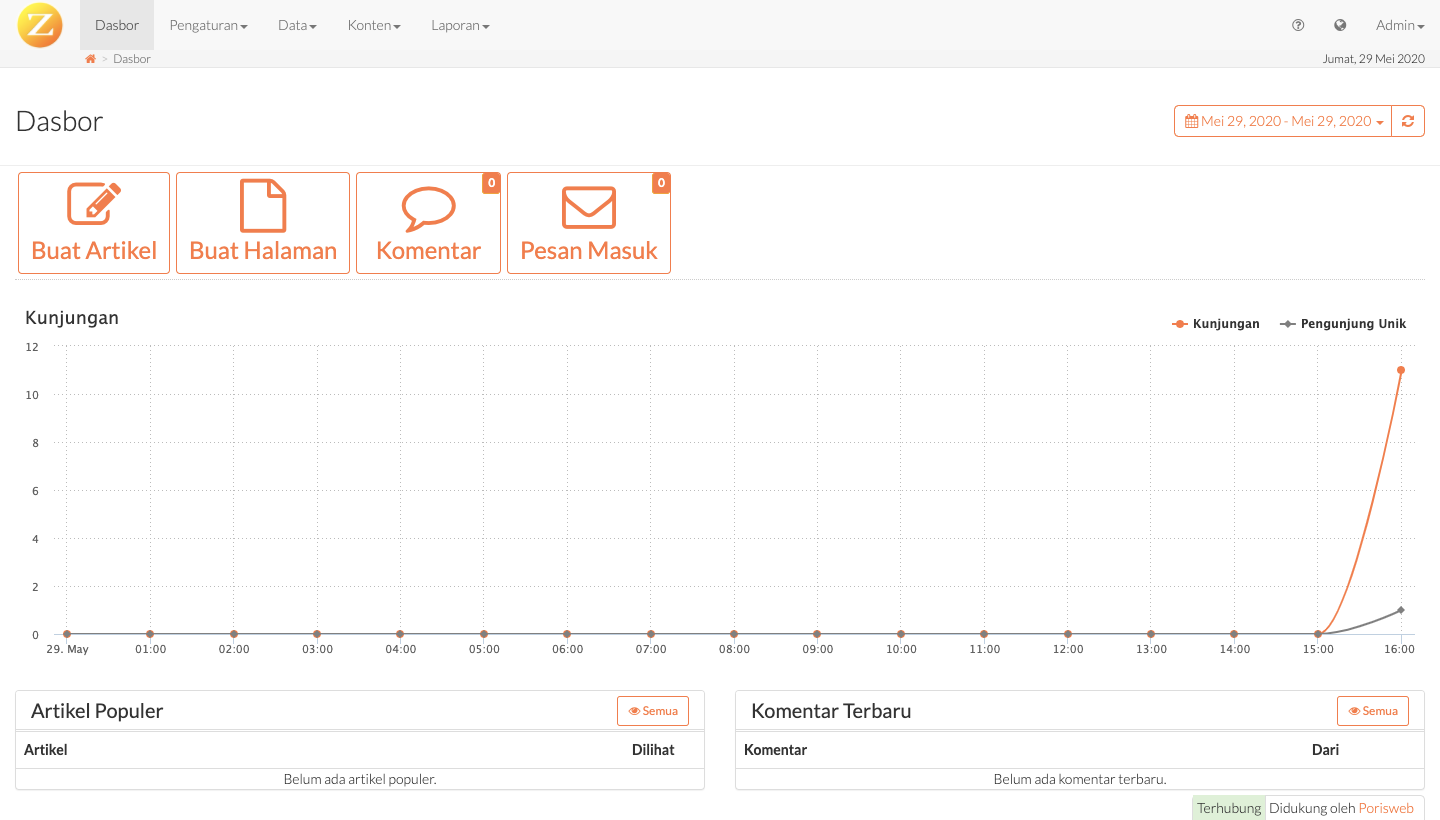
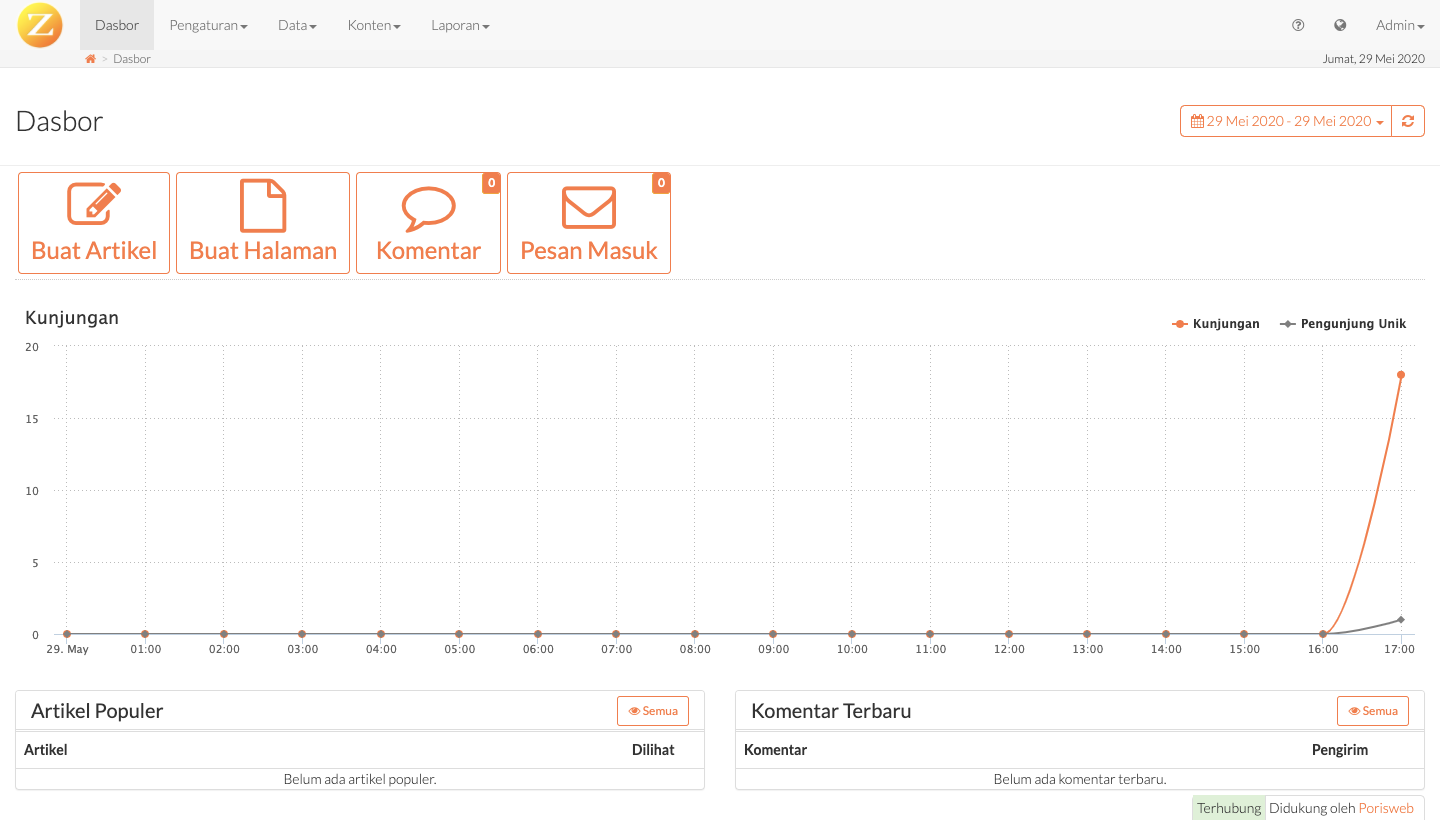
fix date range and wording

diff --git a/src/database/seeds/GuideSeeder.php b/src/database/seeds/GuideSeeder.php
@@ -30,7 +30,8 @@ class GuideSeeder extends Seeder
         ]);
 
         /* Dasbor - Atur Tanggal */
-        $content = '<p>Posisi tombol ini berada di sebelah kanan atas tepat di bawah nama pengguna. Tombol atur tanggal ini dapat digunakan untuk melihat grafik, artikel favorit serta komentar terbaru berdasarkan tanggal. Anda dapat mengaturnya menjadi <code>Hari ini</code> untuk melihat grafik hari ini di mulai dari pukul 00:00 hingga saat diakses, <code>Kemarin</code> untuk melihat grafik kemarin, <code>Minggu ini</code> untuk melihat grafik minggu ini (bukan 7 hari sebelumnya) dimulai dari Senin - Minggu pada minggu ini, <code>Bulan ini</code> untuk melihat grafik bulan ini mulai dari tanggal 1 sampai saat diakses dan <code>Semua</code> untuk melihat grafik situs Anda dari pertama kali pasang atau Anda dapat menyesuaikan tanggal sesuai dengan keinginan Anda melalui pilihan <code>Atur tanggal</code>.</p>';
+        $content = '<div id="z-date-range" class="pull-right" style="background:#fff;cursor:pointer;padding:5px 10px;border:1px solid coral;margin-top:-40px;margin-right:45px;border-top-left-radius:5px;border-bottom-left-radius:5px;color:coral;font-size: 12px;"><i class="fa fa-calendar"></i>&nbsp;<span>[~dates]</span> <b class="caret"></b></div><div id="btn-refresh" title="Segarkan" class="pull-right" style="background:#fff;cursor:pointer;padding:5px 10px;border:1px solid coral;margin-top:-40px;margin-right:15px;border-top-right-radius:5px;border-bottom-right-radius:5px;color:coral;font-size: 12px;"><i class="fa fa-refresh"></i></div>';
+        $content .= '<p>Posisi tombol ini berada di sebelah kanan atas di bawah nama pengguna. Tombol atur tanggal ini dapat digunakan untuk melihat grafik, artikel favorit serta komentar terbaru berdasarkan tanggal. Anda dapat mengaturnya menjadi <code>Hari ini</code> untuk melihat grafik hari ini di mulai dari pukul 00:00 hingga saat diakses, <code>Kemarin</code> untuk melihat grafik kemarin, <code>Minggu ini</code> untuk melihat grafik minggu ini (bukan 7 hari sebelumnya) dimulai dari Senin - Minggu pada minggu ini, <code>Bulan ini</code> untuk melihat grafik bulan ini mulai dari tanggal 1 sampai saat diakses dan <code>Semua</code> untuk melihat grafik situs Anda dari pertama kali pasang atau Anda dapat menyesuaikan tanggal sesuai dengan keinginan Anda melalui pilihan <code>Atur tanggal</code>.</p>';
         $content .= '<p>Untuk menyegarkan data, Anda dapat menekan tombol <a class="btn btn-default btn-xs"><span class="fa fa-refresh"></span></a> yang posisinya tepat berada di sebelah tombol tanggal.</p>';
         $dashTanggal = Guide::create([
             'title' => 'Atur Tanggal',

diff --git a/src/app/helpers.php b/src/app/helpers.php
@@ -665,13 +665,14 @@ if (!function_exists('generateHelpContent')) {
 
             /* print content */
             if ($val->roles_array[0] == 'all' || !empty(array_intersect($userRoles, $val->roles_array))) {
+                $dates = carbon()->isoFormat('Do MMMM YYYY') . ' - ' . carbon()->isoFormat('Do MMMM YYYY');
                 $h = 'h' . ($level < 6 ? $level + 1 : 6);
                 echo '<div id="' . $val->slug . '" class="section">';
                 echo '<' . $h . '>' . $val->title . '</' . $h . '>';
                 if ($val->cover) {
                     echo '<center><a href="' . adminPath() . $val->cover . '" target="_blank"><img src="' . adminPath() . $val->cover . '" width="100%"></a></center>';
                 }
-                echo $val->content;
+                echo str_replace('[~dates]', $dates, $val->content);
                 echo '</div>';
                 if (isset($val->subguide)) {
                     generateHelpContent($val->subguide, $level + 1);

diff --git a/src/resources/views/AdminSC/dashboard.blade.php b/src/resources/views/AdminSC/dashboard.blade.php
@@ -231,7 +231,7 @@
       mn = start.format('MM')-1;
       dt = start.format('DD');
       @if (app('is_desktop'))
-        var range = start.format('MMMM DD, YYYY') + ' - ' + end.format('MMMM DD, YYYY');
+        var range = start.format('DD MMMM YYYY') + ' - ' + end.format('DD MMMM YYYY');
       @else
         var range = label;
       @endif
